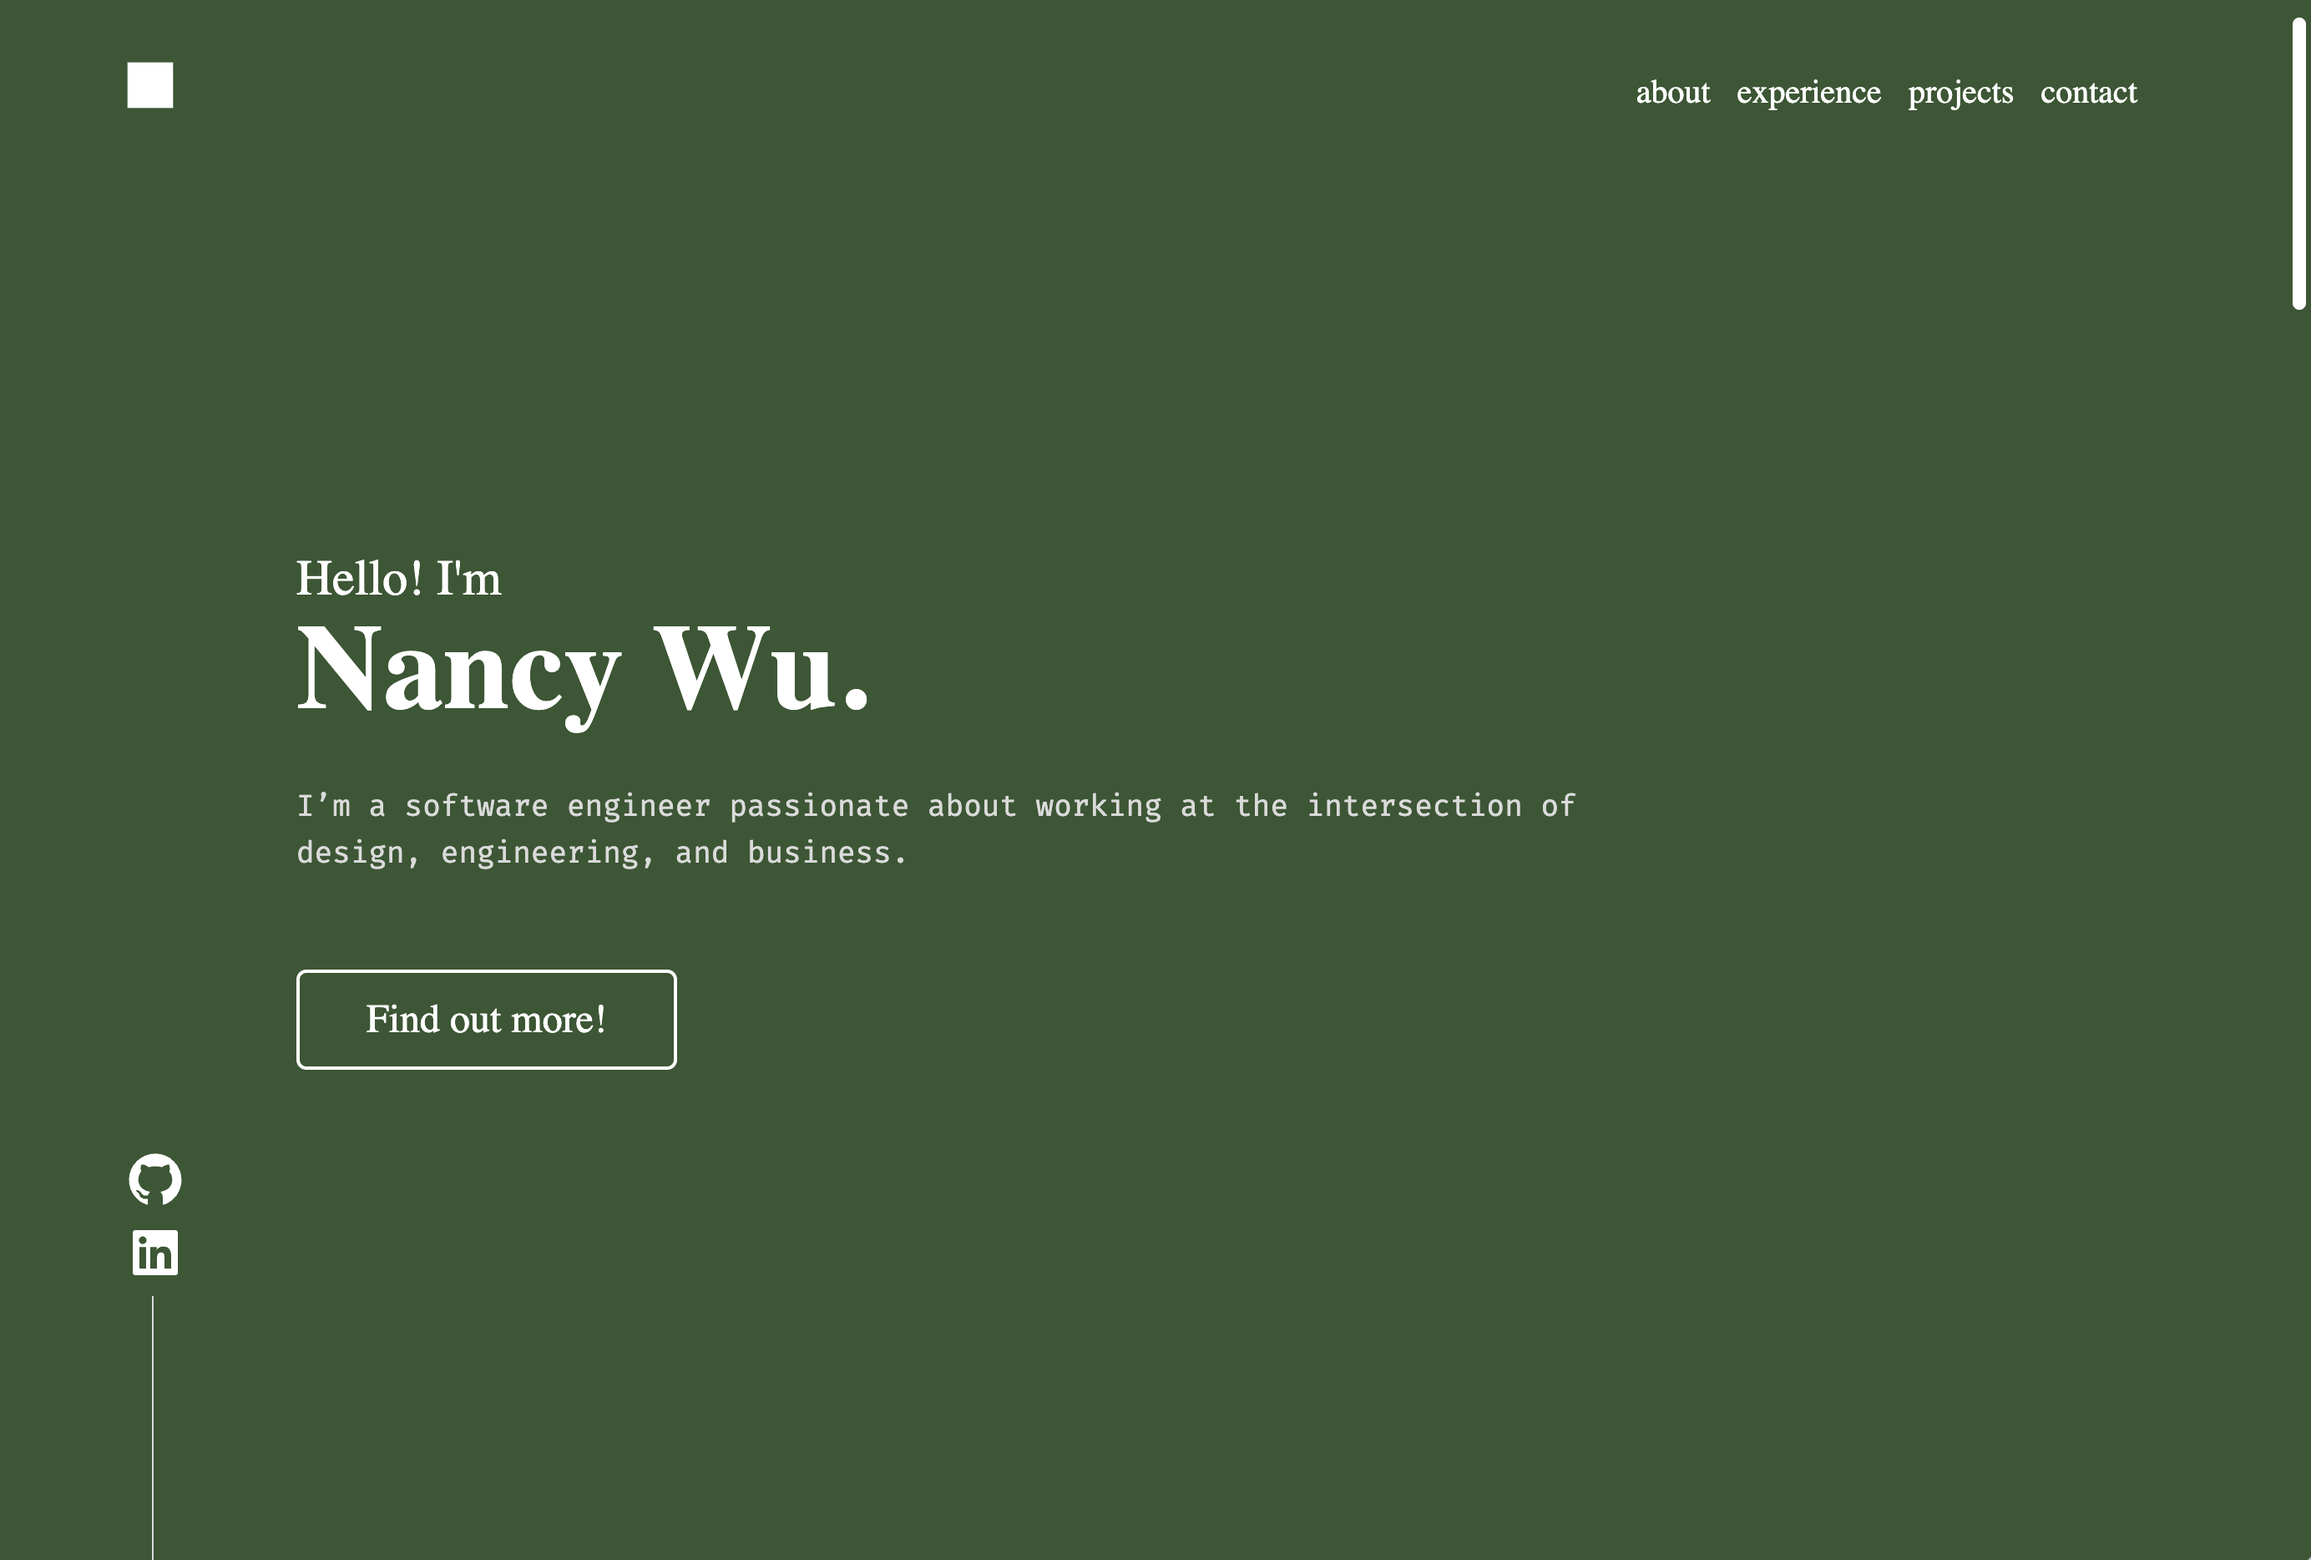
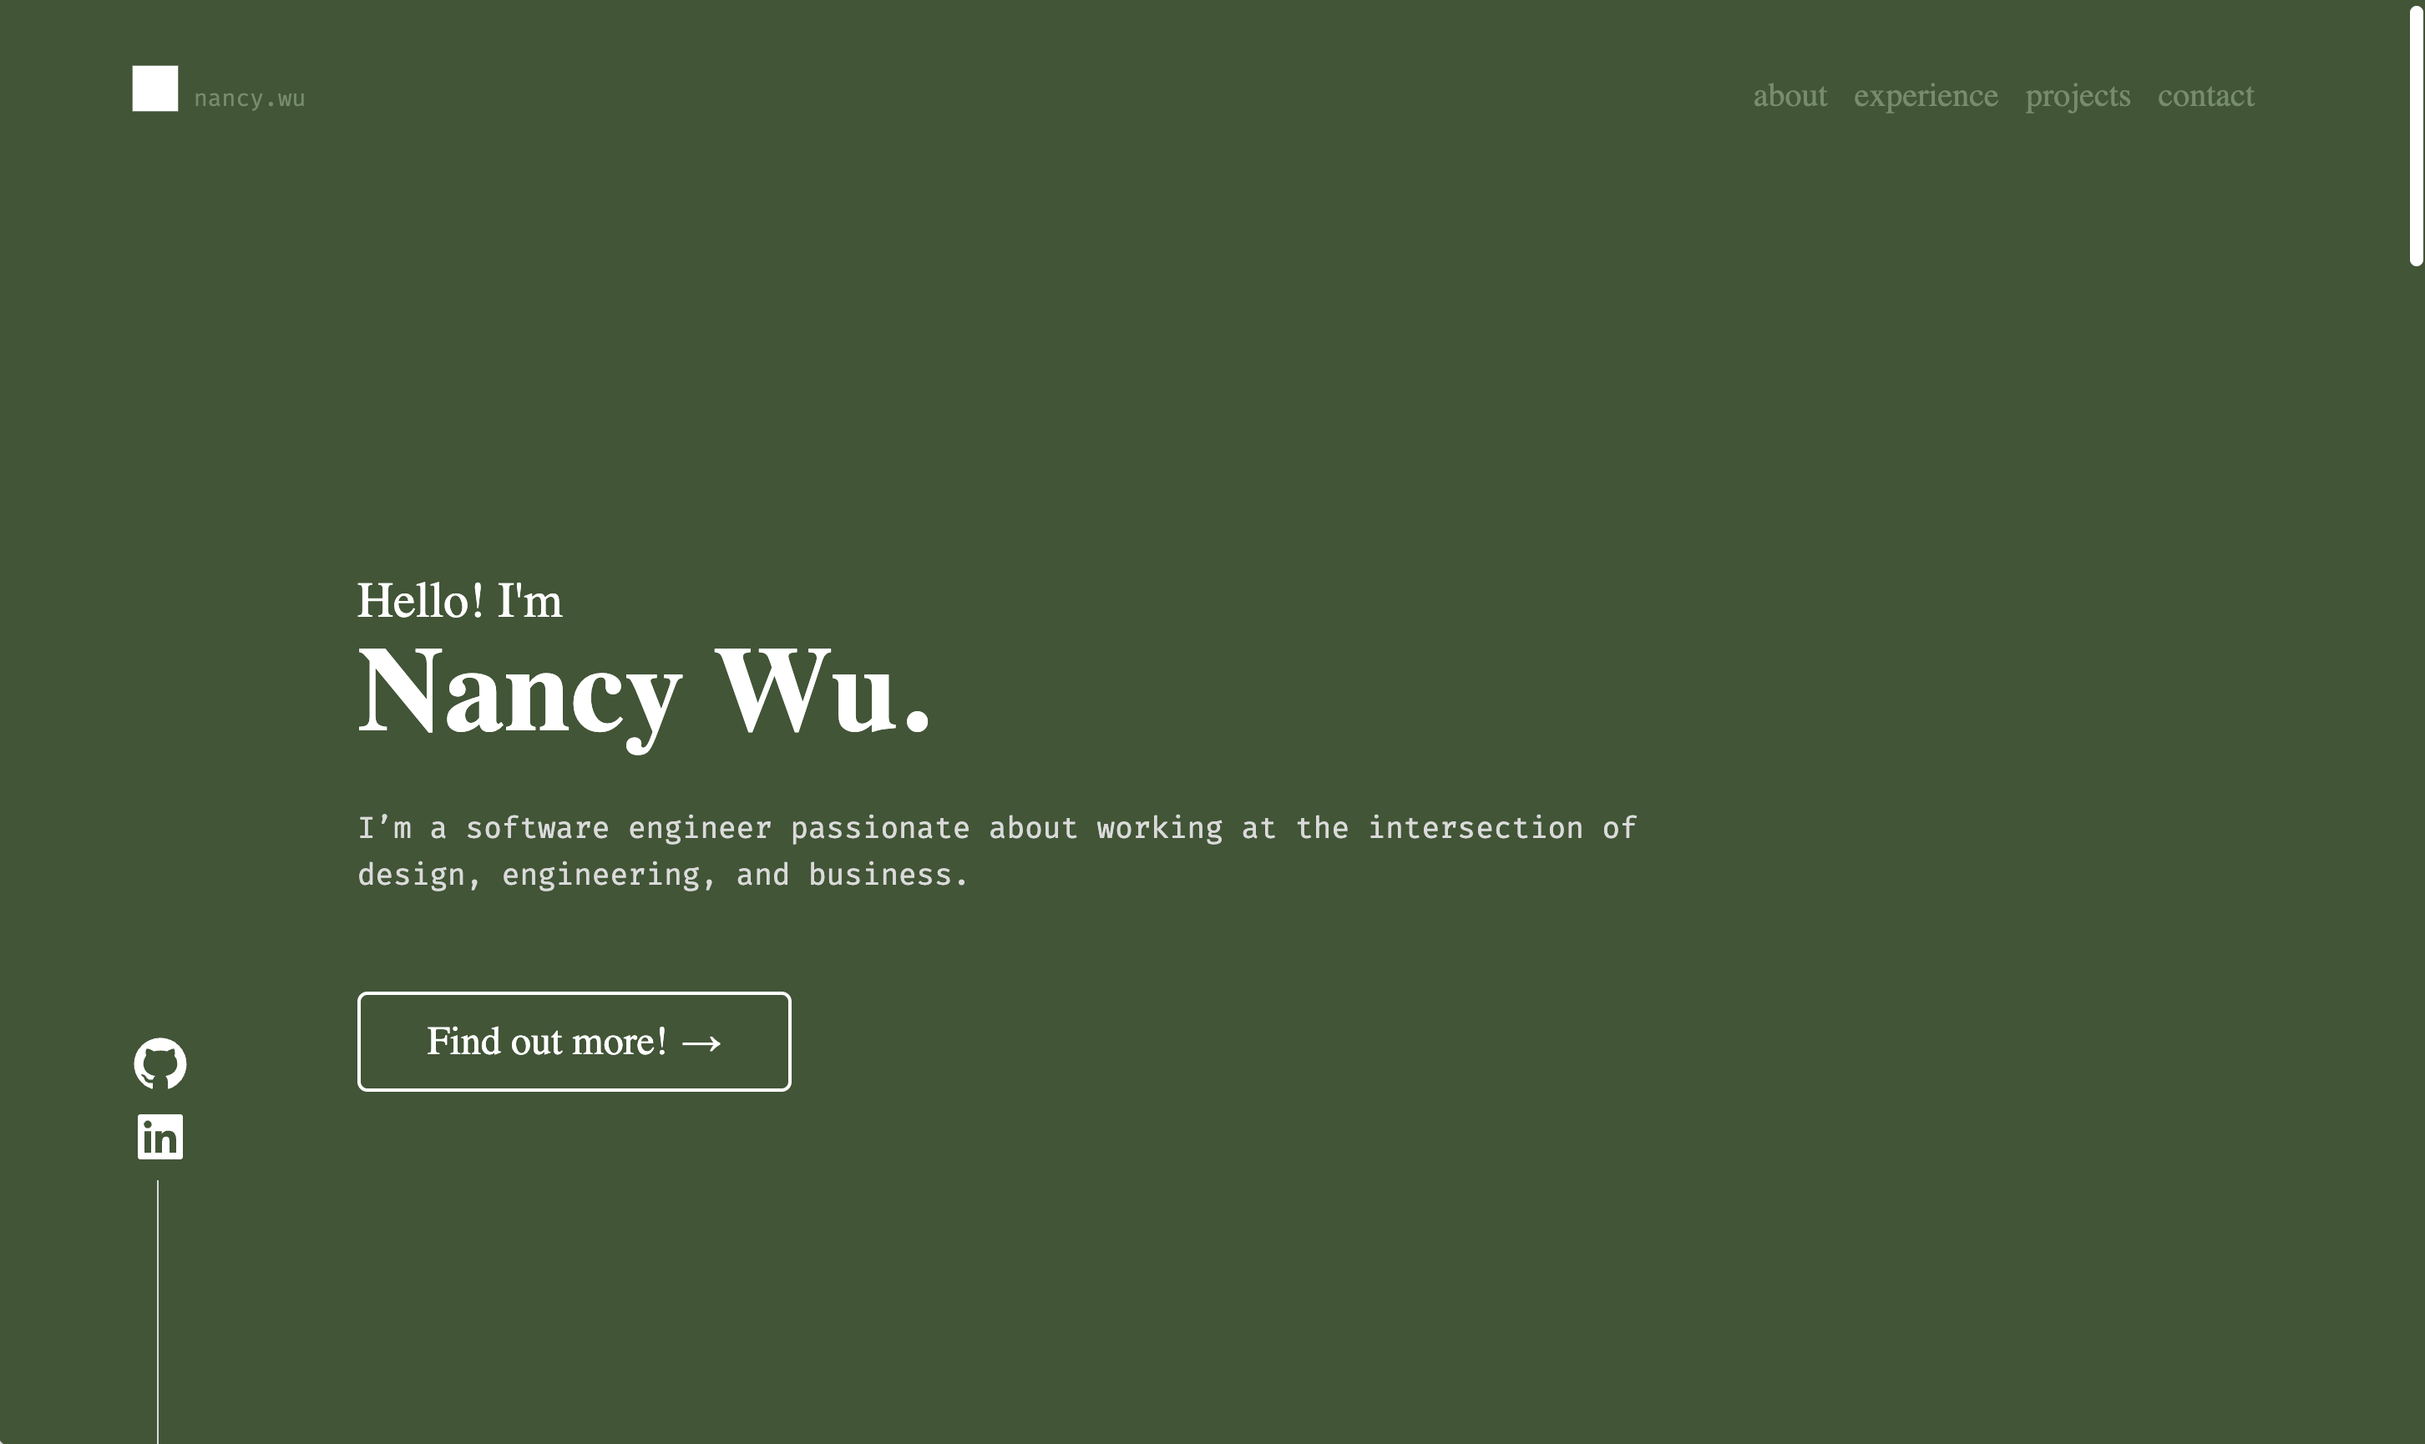
add intersection observer to nav

diff --git a/src/components/Nav.jsx b/src/components/Nav.jsx
@@ -5,31 +5,39 @@ import { Reveal } from "../components/Reveal";
 import { Enlarge } from "../components/Enlarge";
 
 const navLinkClass =
-  "px-2 invisible md:visible relative after:absolute after:left-2 after:right-2 after:bottom-0 after:h-px after:origin-left after:scale-x-0 after:bg-current after:transition-transform after:duration-300 after:ease-out hover:after:scale-x-100 focus-visible:after:scale-x-100";
+  "px-2 invisible md:visible relative transition-colors duration-300 hover:text-grey focus-visible:text-grey after:absolute after:left-2 after:right-2 after:bottom-0 after:h-px after:origin-left after:scale-x-0 after:bg-current after:transition-transform after:duration-300 after:ease-out hover:after:scale-x-100 focus-visible:after:scale-x-100";
 
-const Nav = ({homeRef, aboutRef, experienceRef, projectsRef, contactRef}) => {
+const Nav = ({homeRef, aboutRef, experienceRef, projectsRef, contactRef, activeSection}) => {
   const scrollToRef = (ref) => {
     window.scrollTo(0, ref.current.offsetTop - 110);
   }
+  const getNavLinkClass = (section) =>
+    `${navLinkClass} ${activeSection === section ? "text-grey after:scale-x-100" : "text-lightGreen"}`;
+
   return (
     <div className="w-full bg-green px-10 md:px-20 lg:px-30 sticky top-0 overflow-hidden z-10">
       <nav className="py-8 md:py-10 text-primary font-main text-xl flex justify-between">
         <ul className="flex items-center">
           <Reveal delay={0.25} duration={2}>
             <Enlarge scale={1.1}>
-              <button onClick={() => scrollToRef(homeRef)}>
+              <button
+                onClick={() => scrollToRef(homeRef)}
+                aria-current={activeSection === "home" ? "location" : undefined}
+                className="text-primary transition-colors duration-300 hover:text-primary focus-visible:text-primary"
+              >
                 <GiPlainSquare className="text-3xl justify-start cursor-pointer" />
               </button>
             </Enlarge>
           </Reveal>
           <Reveal delay={0.25} duration={2}>
-            <span className="px-2 select-none">nancy.wu</span>
+            <span className="px-2 select-none font-code text-sm text-lightGreen">nancy.wu</span>
           </Reveal>
         </ul>
         <ul className="flex items-center">
           <RevealFromTop delay={0.5} duration={0.5}>
             <button
-              className={navLinkClass}
+              className={getNavLinkClass("about")}
+              aria-current={activeSection === "about" ? "location" : undefined}
               onClick={() => scrollToRef(aboutRef)}
             >
               about
@@ -37,7 +45,8 @@ const Nav = ({homeRef, aboutRef, experienceRef, projectsRef, contactRef}) => {
           </RevealFromTop>
           <RevealFromTop delay={0.65} duration={0.5}>
             <button
-              className={navLinkClass}
+              className={getNavLinkClass("experience")}
+              aria-current={activeSection === "experience" ? "location" : undefined}
               onClick={() => scrollToRef(experienceRef)}
             >
               experience
@@ -45,7 +54,8 @@ const Nav = ({homeRef, aboutRef, experienceRef, projectsRef, contactRef}) => {
           </RevealFromTop>
           <RevealFromTop delay={0.8} duration={0.5}>
             <button
-              className={navLinkClass}
+              className={getNavLinkClass("projects")}
+              aria-current={activeSection === "projects" ? "location" : undefined}
               onClick={() => scrollToRef(projectsRef)}
             >
               projects
@@ -53,7 +63,8 @@ const Nav = ({homeRef, aboutRef, experienceRef, projectsRef, contactRef}) => {
           </RevealFromTop>
           <RevealFromTop delay={0.95} duration={0.5}>
             <button
-              className={navLinkClass}
+              className={getNavLinkClass("contact")}
+              aria-current={activeSection === "contact" ? "location" : undefined}
               onClick={() => scrollToRef(contactRef)}
             >
               contact

diff --git a/src/App.jsx b/src/App.jsx
@@ -1,4 +1,4 @@
-import { useRef } from "react";
+import { useEffect, useRef, useState } from "react";
 import Nav from "./components/Nav";
 import Home from "./pages/Home";
 import About from "./pages/About";
@@ -13,9 +13,30 @@ function App() {
   const experienceRef = useRef(null);
   const projectsRef = useRef(null);
   const contactRef = useRef(null);
+  const [activeSection, setActiveSection] = useState("home");
+
+  useEffect(() => {
+    const observer = new IntersectionObserver(
+      (entries) => {
+        const currentSection = entries
+          .filter((entry) => entry.isIntersecting)
+          .sort((a, b) => Math.abs(a.boundingClientRect.top - 110) - Math.abs(b.boundingClientRect.top - 110))[0];
+
+        if (currentSection) setActiveSection(currentSection.target.id);
+      },
+      { rootMargin: "-110px 0px -65% 0px", threshold: 0 }
+    );
+
+    [homeRef, aboutRef, experienceRef, projectsRef, contactRef].forEach((sectionRef) => {
+      if (sectionRef.current) observer.observe(sectionRef.current);
+    });
+
+    return () => observer.disconnect();
+  }, [homeRef, aboutRef, experienceRef, projectsRef, contactRef]);
+
   return (
     <div className="bg-green selection:bg-lightGreen">
-      <Nav homeRef={homeRef} experienceRef={experienceRef} aboutRef={aboutRef} projectsRef={projectsRef} contactRef={contactRef}/>
+      <Nav homeRef={homeRef} experienceRef={experienceRef} aboutRef={aboutRef} projectsRef={projectsRef} contactRef={contactRef} activeSection={activeSection}/>
       <Home ref={homeRef} aboutRef={aboutRef}/>
       <About ref={aboutRef}/>
       <Experience ref={experienceRef} />

diff --git a/src/pages/Contact.jsx b/src/pages/Contact.jsx
@@ -6,7 +6,7 @@ import { BiLogoLinkedinSquare } from "react-icons/bi";
 
 const Contact = forwardRef((props, ref) => {
   return (
-    <section ref={ref} className="min-h-[calc(100vh-100px)] md:px-24 max-w-7xl mx-auto font-main text-primary flex-col">
+    <section ref={ref} id="contact" className="min-h-[calc(100vh-100px)] md:px-24 max-w-7xl mx-auto font-main text-primary flex-col">
       <div className="p-10">
         <RevealFromBtm delay={0.75} duration={0.5}>
           <div className="flex">

diff --git a/src/pages/Projects.jsx b/src/pages/Projects.jsx
@@ -4,7 +4,7 @@ import ProjectCards from "../components/ProjectCards";
 
 const Projects = forwardRef((props, ref) => {
   return (
-    <section ref={ref} className="min-h-[calc(100vh-100px)] md:px-24 max-w-7xl mx-auto font-main text-primary">
+    <section ref={ref} id="projects" className="min-h-[calc(100vh-100px)] md:px-24 max-w-7xl mx-auto font-main text-primary">
       <div className="p-10">
         <RevealFromBtm delay={0.25} duration={0.5}>
           <div className="flex mb-4">

diff --git a/src/pages/About.jsx b/src/pages/About.jsx
@@ -34,7 +34,7 @@ const About = forwardRef((props, ref) => {
   // const { ref: viewRef } = useInView();
 
   return (
-    <section ref={ref} className="min-h-[calc(100vh-110px)] md:px-24 max-w-7xl mx-auto font-main text-primary flex-col">
+    <section ref={ref} id="about" className="min-h-[calc(100vh-110px)] md:px-24 max-w-7xl mx-auto font-main text-primary flex-col">
       <div className="p-10">
         <div>
           <RevealFromBtm delay={0.25} duration={0.5}>
